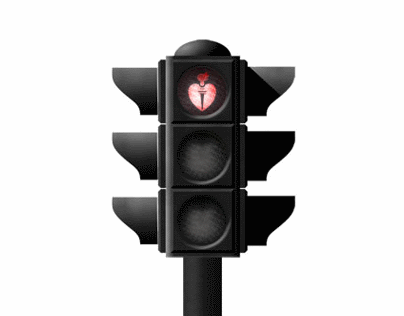
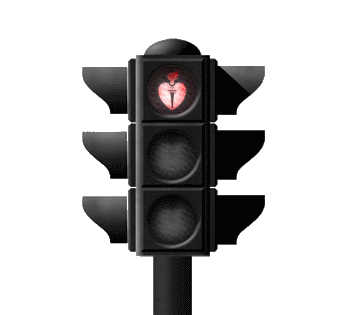
image updates

Changed region(s): [[0.2157, 0.1143, 0.7395, 1.0], [0.5854, 0.7429, 0.6779, 0.8286], [0.6779, 0.2857, 0.7087, 0.3143]]

diff --git a/index.html b/index.html
@@ -24,7 +24,7 @@
             </div>
             <img style="display: inline-block;width: 100%;height: 30%;" src="images\MicrosoftTeams-image-2.jpg" alt="">
         </div>
-        <img style="display: inline-block;float: right;width: 50%;height: 100%;" src="images\MicrosoftTeams-image-1.jpg" alt="">
+        <img style="display: inline-block;float: right;width: 50%;height: 80%;" src="images\MicrosoftTeams-image-1.jpg" alt="">
     </main>
 </body>
 
